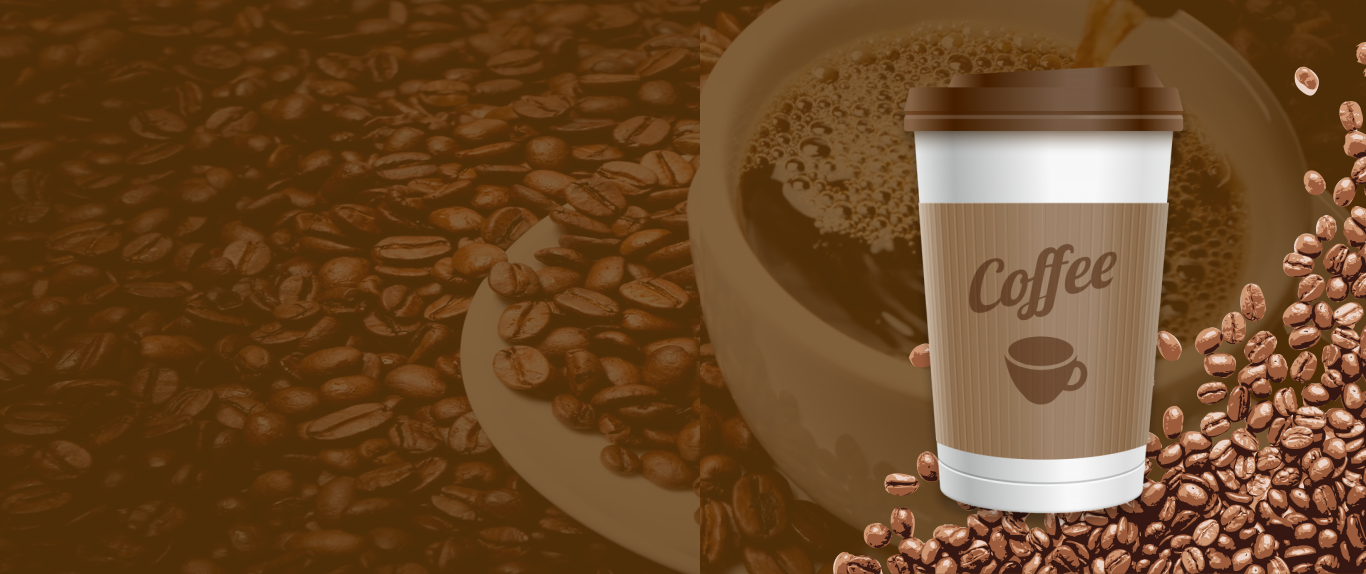
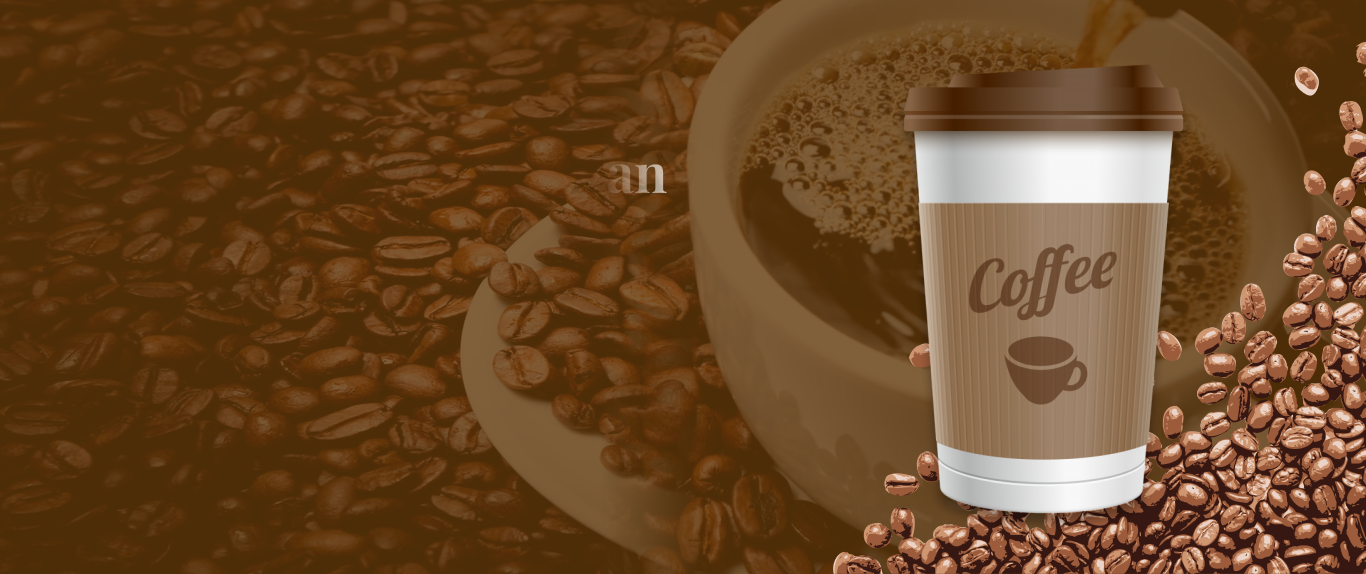
Restore Figma promo composition without English ghost text; localize footer contacts.

diff --git a/bean-scene/index.html b/bean-scene/index.html
@@ -144,10 +144,7 @@
     </section>
 
     <section class="promo" aria-label="Акция">
-      <div class="promo__bg" aria-hidden="true"></div>
-      <div class="promo__visual" aria-hidden="true">
-        <img src="images/promo-right-exact.png" alt="" width="533" height="574" />
-      </div>
+      <img class="promo__banner" src="images/promo-banner.png" alt="" width="1366" height="574" />
       <div class="container promo__inner">
         <div class="promo__copy reveal">
           <h2>Получите шанс<br />на прекрасное утро</h2>
@@ -252,16 +249,16 @@
           <li><a href="#about">Как мы работаем</a></li>
           <li><a href="#features">Условия сервиса</a></li>
           <li><a href="#subscribe">Цены</a></li>
-          <li><a href="#feedback">FAQ</a></li>
+          <li><a href="#feedback">Частые вопросы</a></li>
         </ul>
       </div>
       <div>
         <h3>Контакты</h3>
         <ul class="footer__contacts">
-          <li>Akshya Nagar 1st Block 1st Cross, Rammurthy nagar, Bangalore-560016</li>
-          <li><a href="tel:+1234567890">+1 234 567 890</a></li>
-          <li><a href="mailto:hello@beanscene.com">hello@beanscene.com</a></li>
-          <li><a href="https://www.beanscene.com" target="_blank" rel="noopener">www.beanscene.com</a></li>
+          <li>ул. Кофейная, 12, Москва</li>
+          <li><a href="tel:+74951234567">+7 495 123-45-67</a></li>
+          <li><a href="mailto:hello@beanscene.ru">hello@beanscene.ru</a></li>
+          <li><a href="#home">beanscene.ru</a></li>
         </ul>
       </div>
     </div>

diff --git a/bean-scene/styles.css b/bean-scene/styles.css
@@ -515,7 +515,7 @@ select {
   color: #7e5a2f;
 }
 
-/* Promo — Figma 2:167 (clean layers, no EN text) */
+/* Promo — Figma 2:167 seamless banner, RU copy only */
 .promo {
   position: relative;
   color: var(--white);
@@ -525,32 +525,16 @@ select {
   background: #603809;
 }
 
-.promo__bg {
+.promo__banner {
   position: absolute;
   inset: 0;
-  z-index: 0;
-  background:
-    linear-gradient(rgba(96, 56, 9, 0.8), rgba(96, 56, 9, 0.8)),
-    url("images/promo-bg.jpg") center / cover no-repeat,
-    #603809;
-}
-
-.promo__visual {
-  position: absolute;
-  top: 0;
-  right: 0;
-  bottom: 0;
-  width: min(48%, 657px);
-  z-index: 1;
-  pointer-events: none;
-}
-
-.promo__visual img {
   width: 100%;
   height: 100%;
   object-fit: cover;
-  object-position: left center;
+  object-position: center;
   max-width: none;
+  z-index: 0;
+  pointer-events: none;
 }
 
 .promo__inner {
@@ -1118,9 +1102,8 @@ body.modal-open {
     margin-left: 0.5rem;
   }
 
-  .promo__visual {
-    width: min(55%, 420px);
-    opacity: 0.95;
+  .promo__banner {
+    object-position: center right;
   }
 
   .discover__grid {
